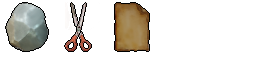
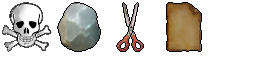
skull image for killtoggle button // restructuring // gradle settings to produce a signed release .apk

diff --git a/core/src/main/java/org/maz/GameScreen.java b/core/src/main/java/org/maz/GameScreen.java
@@ -4,36 +4,36 @@ import static org.maz.GameControl.ashleyEngine;
 import static org.maz.GameControl.getCurrentItem;
 import static org.maz.GameControl.viewport;
 
-import com.badlogic.ashley.core.ComponentMapper;
-import com.badlogic.ashley.core.Engine;
-import com.badlogic.ashley.core.Entity;
 import com.badlogic.gdx.Gdx;
 import com.badlogic.gdx.InputMultiplexer;
 import com.badlogic.gdx.Screen;
 import com.badlogic.gdx.graphics.g2d.SpriteBatch;
 import com.badlogic.gdx.math.Vector2;
-import com.badlogic.gdx.physics.box2d.Body;
-import com.badlogic.gdx.physics.box2d.BodyDef;
-import com.badlogic.gdx.physics.box2d.CircleShape;
-import com.badlogic.gdx.physics.box2d.FixtureDef;
 import com.badlogic.gdx.scenes.scene2d.Stage;
 import com.badlogic.gdx.utils.ScreenUtils;
 import com.badlogic.gdx.utils.viewport.ScreenViewport;
 
 /** First screen of the application. Displayed after the application is created. */
 public class GameScreen implements Screen {
-    private SpriteBatch spriteBatch;
+    private static GameScreen INSTANCE;
+    private final SpriteBatch spriteBatch = new SpriteBatch();
     private InputProcessor inputProcessor;
     private Stage uiStage;
 
     private float burstHelper;
 
-    public GameScreen() {
+    private GameScreen() {
+    }
+
+    public static GameScreen getInstance() {
+        if (INSTANCE == null) {
+            INSTANCE = new GameScreen();
+        }
+        return INSTANCE;
     }
 
     @Override
     public void show() {
-        spriteBatch = new SpriteBatch(); // This should be used in all screens
         viewport = new ScreenViewport();
         spriteBatch.setProjectionMatrix(viewport.getCamera().combined);
 
@@ -45,22 +45,9 @@ public class GameScreen implements Screen {
         inputMultiplexer.addProcessor(inputProcessor);
         Gdx.input.setInputProcessor(inputMultiplexer);
 
-        ashleyEngine = new Engine();
-        ashleyEngine.addSystem(new MoveSystem());
-        ashleyEngine.addSystem(new RenderSystem(spriteBatch));
-
-        // Box2D/Physics
-        ashleyEngine.addSystem(new PhysicsSystem());
-        ashleyEngine.addSystem(new BodySyncSystem());
-        ChangeBodyScaleSystem changeBodyScaleSystem = new ChangeBodyScaleSystem();
-        changeBodyScaleSystem.setProcessing(false); // // Only needed on resizing the window
-        ashleyEngine.addSystem(changeBodyScaleSystem);
-        ashleyEngine.addSystem(new CollisionSystem());
-
         determineScale();
 
         Gdx.graphics.setCursor(AssetManager.getInstance().getCursor(getCurrentItem()));
-        createEntity(Gdx.graphics.getWidth() / 2f, Gdx.graphics.getHeight() / 2f, GameControl.Item.ROCK);
     }
 
     @Override
@@ -70,7 +57,7 @@ public class GameScreen implements Screen {
         burstHelper += delta;
         if (inputProcessor.touchDown && burstHelper > GameControl.BURST_SPEED_NORMAL) {
             Vector2 startPos = viewport.unproject(new Vector2(Gdx.input.getX(), Gdx.input.getY()));
-            createEntity(startPos.x, startPos.y, getCurrentItem());
+            GameControl.createEntity(startPos.x, startPos.y, GameControl.getCurrentItem());
             burstHelper = 0;
         }
         ashleyEngine.update(delta);
@@ -92,9 +79,9 @@ public class GameScreen implements Screen {
         determineScale();
 
         // We don't need this system processed every time, just once on resizing.
-        ashleyEngine.getSystem(ChangeBodyScaleSystem.class).setProcessing(true);
-        ashleyEngine.update(0.5f);
-        ashleyEngine.getSystem(ChangeBodyScaleSystem.class).setProcessing(false);
+        GameControl.ashleyEngine.getSystem(ChangeBodyScaleSystem.class).setProcessing(true);
+        GameControl.ashleyEngine.update(0.5f);
+        GameControl.ashleyEngine.getSystem(ChangeBodyScaleSystem.class).setProcessing(false);
 
         uiStage.getViewport().update(width, height, true);
     }
@@ -119,55 +106,12 @@ public class GameScreen implements Screen {
         // Destroy screen's assets here.
     }
 
-    void createEntity(float x, float y, GameControl.Item item) {
-        Entity entity = new Entity();
-
-        PositionComponent positionComponent = new PositionComponent();
-        positionComponent.pos.set(x, y);
-        positionComponent.bezier = MoveSystem.getBezier(new Vector2(x, y));
-        entity.add(positionComponent);
-
-        RotationComponent rot = new RotationComponent();
-        rot.angle = 0;
-        entity.add(rot);
-
-        TextureComponent textureComponent = new TextureComponent(AssetManager.getInstance().getAtlasRegion(item));
-        entity.add(textureComponent);
-
-        ItemComponent itemComponent = new ItemComponent(item);
-        entity.add(itemComponent);
-
-        Box2DBodyComponent box2DBodyComponent = new Box2DBodyComponent();
-        box2DBodyComponent.body = createBody(textureComponent.textureRegion.getRegionWidth(), entity);
-        entity.add(box2DBodyComponent);
-
-        ashleyEngine.addEntity(entity);
-    }
-
-    private Body createBody(float width, Entity entity) {
-        BodyDef bd = new BodyDef();
-        bd.type = BodyDef.BodyType.DynamicBody;
-        Body body = PhysicsSystem.world.createBody(bd);
-        ComponentMapper<ItemComponent> componentMapper = ComponentMapper.getFor(ItemComponent.class);
-        body.setUserData(componentMapper.get(entity).item);
-        body.createFixture(createFixtureDefForItem(width));
-        body.setUserData(entity);
-        return body;
-    }
-
-    static FixtureDef createFixtureDefForItem(float width) {
-        CircleShape shape = new CircleShape();
-        float radius = width / 2 * GameControl.scale;
-        shape.setRadius(radius);
-        FixtureDef fd = new FixtureDef();
-        fd.shape = shape;
-        shape.dispose();
-        return fd;
-    }
-
     /** Determine general scale factor according to window size.*/
     private void determineScale() {
-        GameControl.scale = Math.min(Gdx.graphics.getWidth(), Gdx.graphics.getHeight()) * 0.0005f;
+        GameControl.scale = Math.min(Gdx.graphics.getWidth(), Gdx.graphics.getHeight()) * 0.0007f;
     }
 
+    public SpriteBatch getSpriteBatch() {
+        return spriteBatch;
+    }
 }

diff --git a/core/src/main/java/org/maz/GameControl.java b/core/src/main/java/org/maz/GameControl.java
@@ -1,23 +1,34 @@
 package org.maz;
 
+import com.badlogic.ashley.core.ComponentMapper;
 import com.badlogic.ashley.core.Engine;
+import com.badlogic.ashley.core.Entity;
+import com.badlogic.gdx.Gdx;
+import com.badlogic.gdx.math.Vector2;
+import com.badlogic.gdx.physics.box2d.Body;
+import com.badlogic.gdx.physics.box2d.BodyDef;
+import com.badlogic.gdx.physics.box2d.CircleShape;
+import com.badlogic.gdx.physics.box2d.FixtureDef;
 import com.badlogic.gdx.utils.viewport.ScreenViewport;
 
 public class GameControl {
+    private static GameControl INSTANCE;
+
     public static final float BURST_SPEED_NORMAL = 0.2f; // Spawn an item every X sec.
     public static final float BURST_SPEED_HIGH = 0.2f;
     public static final float PPM = 100f; // pixels per meter (to convert between box2d-meters and pixels)
 
     /** Scale factor to scale textures, body-fixtures, etc. according to (resized) window size. */
     public static float scale = 1f;
-
-    private static GameControl INSTANCE;
     private static int itemIndex = 0;
+    private static boolean killMode = false;
 
     public static ScreenViewport viewport;
     public static Engine ashleyEngine;
 
-    private GameControl() {}
+    private GameControl() {
+        System.out.println("GameControl instance created"); //xxxm
+    }
 
     public static enum Item {
         ROCK,
@@ -39,6 +50,75 @@ public class GameControl {
 
     public static void setCurrentItem(Item item) {
         itemIndex = item.ordinal();
+    }
+
+    public static void toggleKillMode() {
+        killMode = !killMode;
+    }
+
+    public static boolean isKillMode() {return killMode;}
+
+    public static void init() {
+        ashleyEngine = new Engine();
+        ashleyEngine.addSystem(new MoveSystem());
+        ashleyEngine.addSystem(new RenderSystem(GameScreen.getInstance().getSpriteBatch()));
+
+        // Box2D/Physics
+        ashleyEngine.addSystem(new PhysicsSystem());
+        ashleyEngine.addSystem(new BodySyncSystem());
+        ChangeBodyScaleSystem changeBodyScaleSystem = new ChangeBodyScaleSystem();
+        changeBodyScaleSystem.setProcessing(false); // // Only needed on resizing the window
+        ashleyEngine.addSystem(changeBodyScaleSystem);
+        ashleyEngine.addSystem(new CollisionSystem());
+
+        GameControl.createEntity(Gdx.graphics.getWidth() / 2f, Gdx.graphics.getHeight() / 2f, GameControl.Item.ROCK);
+
+    }
+
+    static void createEntity(float x, float y, GameControl.Item item) {
+        Entity entity = new Entity();
+
+        PositionComponent positionComponent = new PositionComponent();
+        positionComponent.pos.set(x, y);
+        positionComponent.bezier = MoveSystem.getBezier(new Vector2(x, y));
+        entity.add(positionComponent);
+
+        RotationComponent rot = new RotationComponent();
+        rot.angle = 0;
+        entity.add(rot);
+
+        TextureComponent textureComponent = new TextureComponent(AssetManager.getInstance().getAtlasRegion(item));
+        entity.add(textureComponent);
+
+        ItemComponent itemComponent = new ItemComponent(item);
+        entity.add(itemComponent);
+
+        Box2DBodyComponent box2DBodyComponent = new Box2DBodyComponent();
+        box2DBodyComponent.body = GameControl.createBody(textureComponent.textureRegion.getRegionWidth(), entity);
+        entity.add(box2DBodyComponent);
+
+        ashleyEngine.addEntity(entity);
+    }
+
+    private static Body createBody(float width, Entity entity) {
+        BodyDef bd = new BodyDef();
+        bd.type = BodyDef.BodyType.DynamicBody;
+        Body body = PhysicsSystem.world.createBody(bd);
+        ComponentMapper<ItemComponent> componentMapper = ComponentMapper.getFor(ItemComponent.class);
+        body.setUserData(componentMapper.get(entity).item);
+        body.createFixture(createFixtureDefForItem(width));
+        body.setUserData(entity);
+        return body;
+    }
+
+    static FixtureDef createFixtureDefForItem(float width) {
+        CircleShape shape = new CircleShape();
+        float radius = width / 2 * GameControl.scale;
+        shape.setRadius(radius);
+        FixtureDef fd = new FixtureDef();
+        fd.shape = shape;
+        shape.dispose();
+        return fd;
     }
 
 }

diff --git a/core/src/main/java/org/maz/CollisionSystem.java b/core/src/main/java/org/maz/CollisionSystem.java
@@ -74,30 +74,30 @@ public class CollisionSystem extends EntitySystem implements ContactListener {
                 if (itemA == ROCK) {
                     switch (itemB) {
                         case SCISSORS:
-                            removeB(entityB, contact);
+                            handleB(entityB, contact);
                             break;
                         case PAPER:
-                            removeA(entityA, contact);
+                            handleA(entityA, contact);
                             break;
                     }
                 }
                 else if (itemA == PAPER) {
                     switch (itemB) {
                         case ROCK:
-                            removeB(entityB, contact);
+                            handleB(entityB, contact);
                             break;
                         case SCISSORS:
-                            removeA(entityA, contact);
+                            handleA(entityA, contact);
                             break;
                     }
                 }
                 else if (itemA == SCISSORS) {
                     switch (itemB) {
                         case PAPER:
-                            removeB(entityB, contact);
+                            handleB(entityB, contact);
                             break;
                         case ROCK:
-                            removeA(entityA, contact);
+                            handleA(entityA, contact);
                             break;
                     }
                 }
@@ -105,12 +105,15 @@ public class CollisionSystem extends EntitySystem implements ContactListener {
         }
     }
 
-    private void removeA(Entity entityA, Contact contact) {
+    private void handleA(Entity entityA, Contact contact) {
         GameControl.ashleyEngine.removeEntity(entityA);
         PhysicsSystem.world.destroyBody(contact.getFixtureA().getBody());
+        if (!GameControl.isKillMode()) {
+
+        }
     }
 
-    private void removeB(Entity entityB, Contact contact) {
+    private void handleB(Entity entityB, Contact contact) {
         GameControl.ashleyEngine.removeEntity(entityB);
         PhysicsSystem.world.destroyBody(contact.getFixtureB().getBody());
     }

diff --git a/core/src/main/java/org/maz/AssetManager.java b/core/src/main/java/org/maz/AssetManager.java
@@ -14,6 +14,7 @@ public class AssetManager {
     TextureAtlas.AtlasRegion rock;
     TextureAtlas.AtlasRegion paper;
     TextureAtlas.AtlasRegion scissors;
+    TextureAtlas.AtlasRegion skull;
 
     private AssetManager() {
     }
@@ -23,6 +24,10 @@ public class AssetManager {
             INSTANCE = new AssetManager();
         }
         return INSTANCE;
+    }
+
+    public static enum Sprite {
+        SKULL
     }
 
     void load() {
@@ -37,6 +42,7 @@ public class AssetManager {
         rock = textureAtlas.findRegion("rock");
         scissors = textureAtlas.findRegion("scissors");
         paper = textureAtlas.findRegion("paper");
+        skull = textureAtlas.findRegion("skull");
     }
 
     public TextureAtlas.AtlasRegion getAtlasRegion(GameControl.Item item) {
@@ -44,6 +50,12 @@ public class AssetManager {
             case ROCK -> this.rock;
             case PAPER -> this.paper;
             case SCISSORS -> this.scissors;
+        };
+    }
+
+    public TextureAtlas.AtlasRegion getSprite(Sprite sprite) {
+        return switch (sprite) {
+            case SKULL -> this.skull;
         };
     }
 

diff --git a/core/src/main/java/org/maz/UIStage.java b/core/src/main/java/org/maz/UIStage.java
@@ -46,7 +46,8 @@ public class UIStage extends Stage {
         buttonContainer.add(createIconButton(GameControl.Item.ROCK)).size(BUTTON_SIZE).row();
         buttonContainer.add(createIconButton(GameControl.Item.PAPER)).size(BUTTON_SIZE).row();
         buttonContainer.add(createIconButton(GameControl.Item.SCISSORS)).size(BUTTON_SIZE).row();
-        buttonContainer.add(createIconButton(GameControl.Item.SCISSORS)).size(BUTTON_SIZE).row();
+        buttonContainer.add(createIconButton(new TextureRegionDrawable(AssetManager.getInstance().getSprite(AssetManager.Sprite.SKULL)),
+            GameControl::toggleKillMode)).size(BUTTON_SIZE).row();
 
         // ButtonContainer-table must be touchable to become fully "hittable" (=be detected as an actor) so enter/exit works
         buttonContainer.setTouchable(Touchable.enabled);

diff --git a/core/src/main/java/org/maz/ChangeBodyScaleSystem.java b/core/src/main/java/org/maz/ChangeBodyScaleSystem.java
@@ -20,6 +20,6 @@ public class ChangeBodyScaleSystem extends IteratingSystem {
         body.destroyFixture(body.getFixtureList().get(0));
 
         // Apply new fixture which was created according to scale.
-        body.createFixture(GameScreen.createFixtureDefForItem(width));
+        body.createFixture(GameControl.createFixtureDefForItem(width));
     }
 }

diff --git a/core/src/main/java/org/maz/RPS.java b/core/src/main/java/org/maz/RPS.java
@@ -8,7 +8,7 @@ public class RPS extends Game {
     @Override
     public void create() {
         AssetManager.getInstance().load();
-
-        setScreen(new GameScreen());
+        GameControl.init();
+        setScreen(GameScreen.getInstance());
     }
 }
